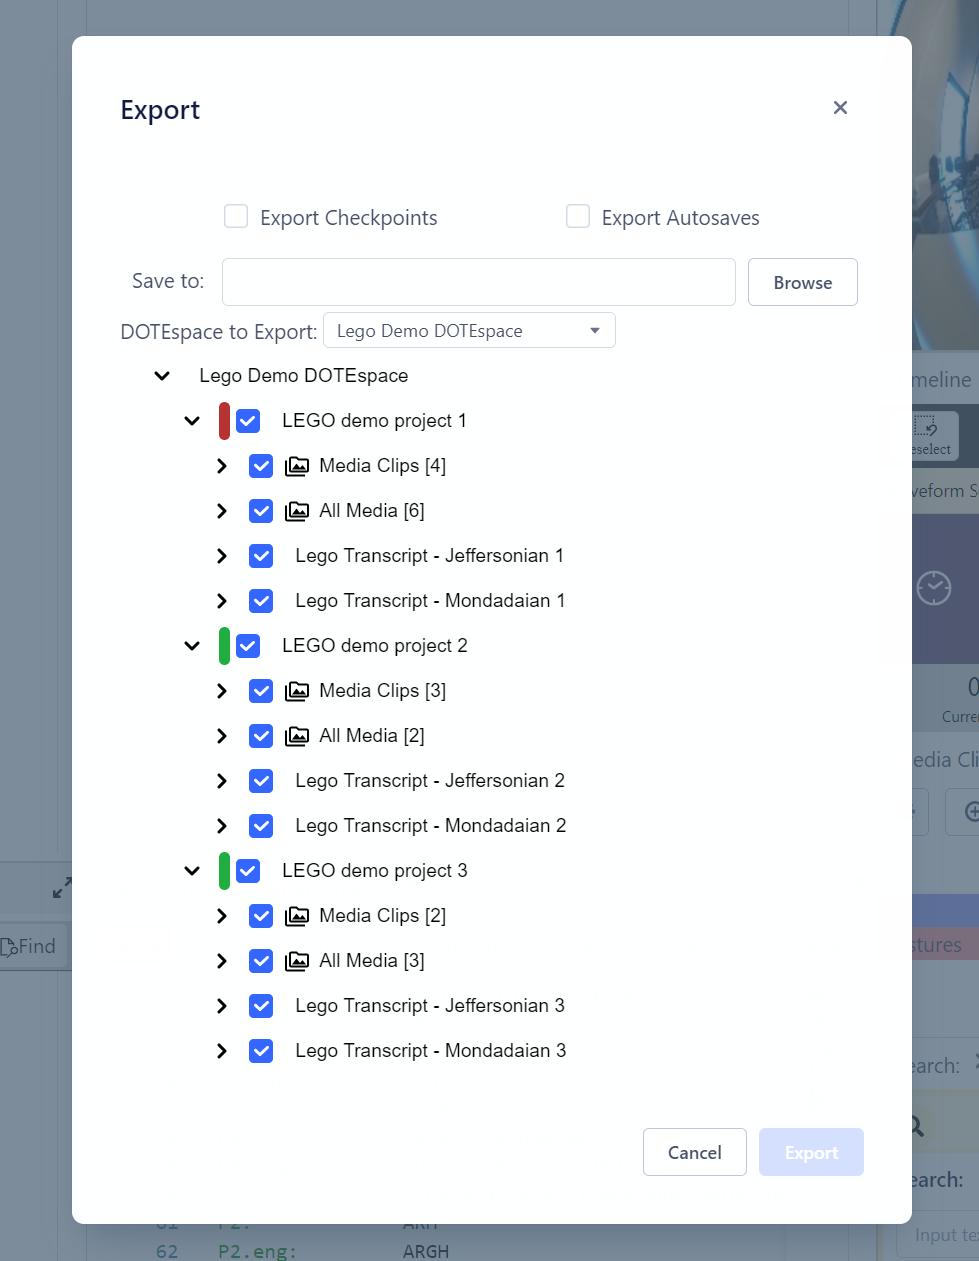
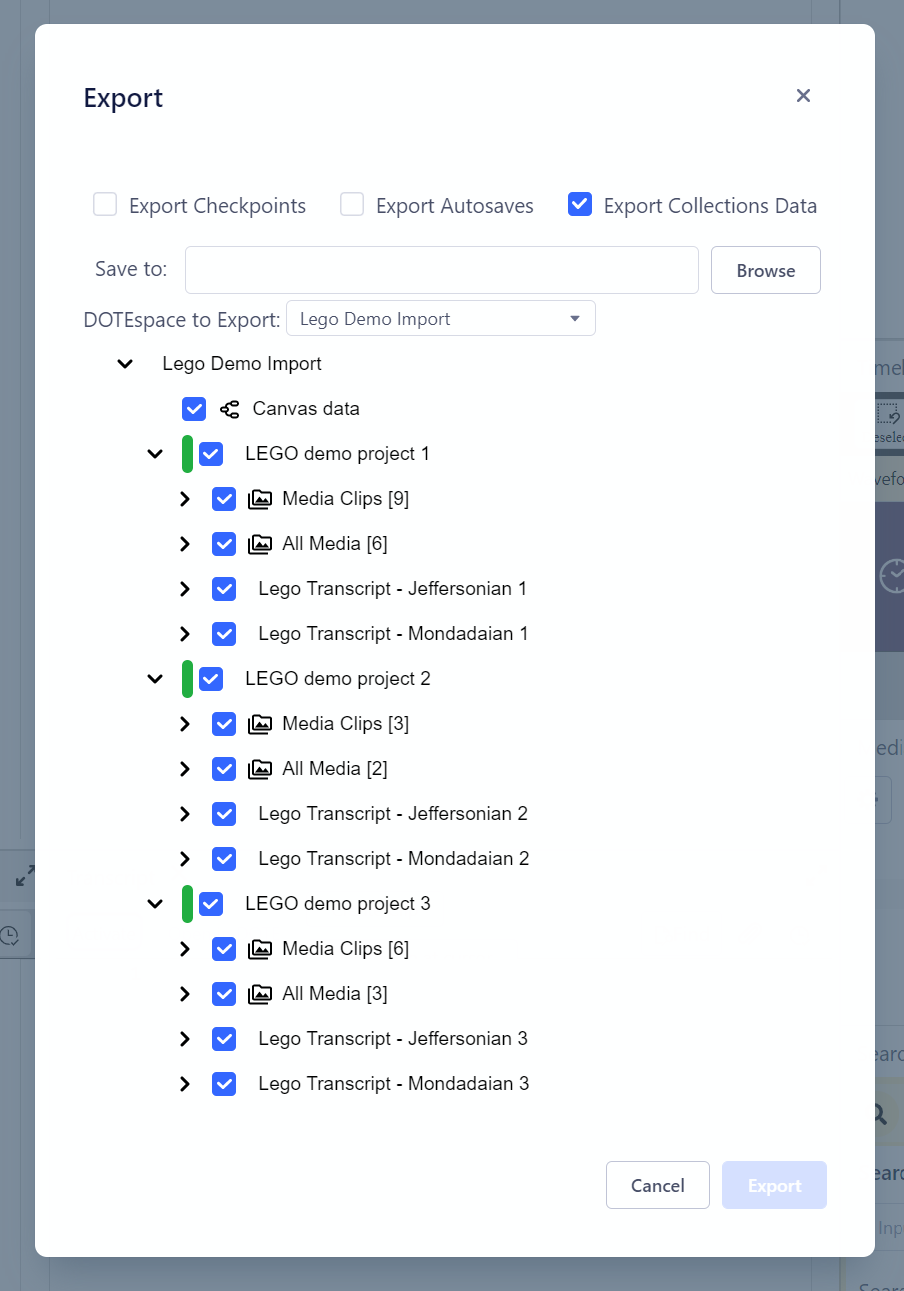
Add new features and image to Export

Changed region(s): [[0.0, 0.0, 1.0, 1.0], [0.6195, 0.1237, 0.8982, 0.2474], [0.6195, 0.2165, 0.6504, 0.2474]]

diff --git a/export.md b/export.md
@@ -9,9 +9,10 @@ An exported DOTEspace can be imported into DOTEbase by another user.
 1. Select File/Export DOTEspace.
 1. Select the Projects/Transcripts and/or Media/Transcript Clips that you would like to export in the DOTEspace.
 The default is ALL.
-You can also choose to include/exclude Checkpoints and Autosaves associated with each Transcript (see _DOTE_).
-1- Select `Browse` to find a location for the archive file to be generated.
-1. Select `Export` and choose a filename.
+    - You can also choose to include/exclude Checkpoints and AutoBackups associated with each Transcript (see _DOTE_ for more details).
+    - You can also select to export the Canvas and Clip Collections.
+1. Select `Browse` to find a location for the archive file to be generated.
+2. Select `Export` and choose a filename.
 
 [![Export](images/dotespace/export.png)](images/dotespace/export.png)
 
@@ -31,6 +32,7 @@ If this concerns you, then encrypt the DOTEspace export file using your preferre
 1. If you have received a DOTEspace archive file, then select `File/Import DOTEspace`.
 1. Locate the file on your file system.
 1. The Projects/Transcripts and Transcript/Media Clips that are found in the archive will be listed.
+1. You can also select if you wish to import the Canvas and Clip Collections as well.
 1. Select the location on your file system that you would like the DOTEspace to be unpacked.
-2. Enter a unique name for the imported DOTEspace.
-3. The DOTEspace will be added to your list of DOTEspaces.
+1. Enter a unique name for the imported DOTEspace.
+1. The DOTEspace will be added to your list of DOTEspaces.
